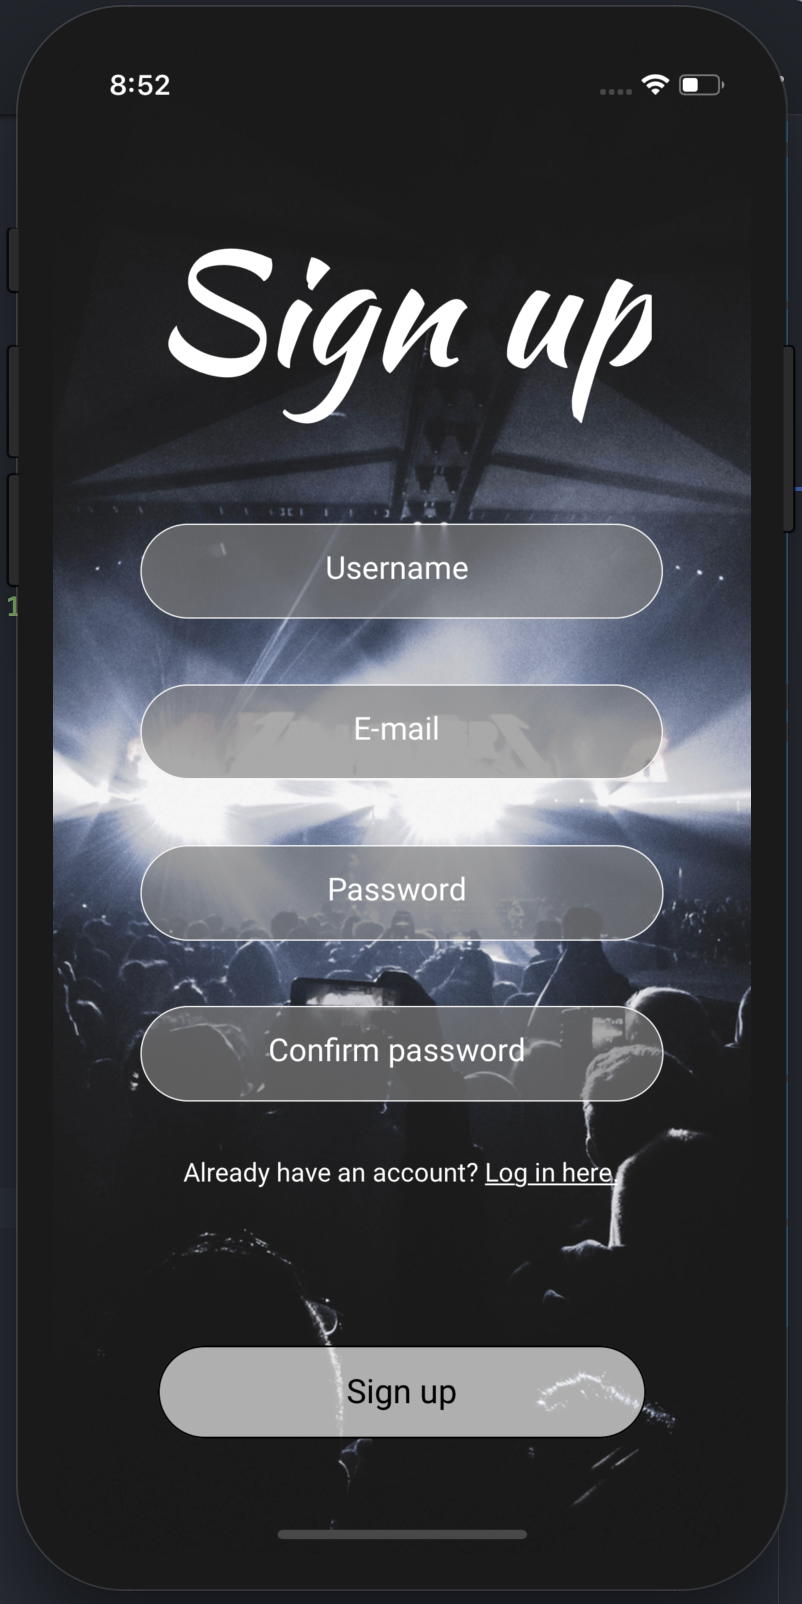
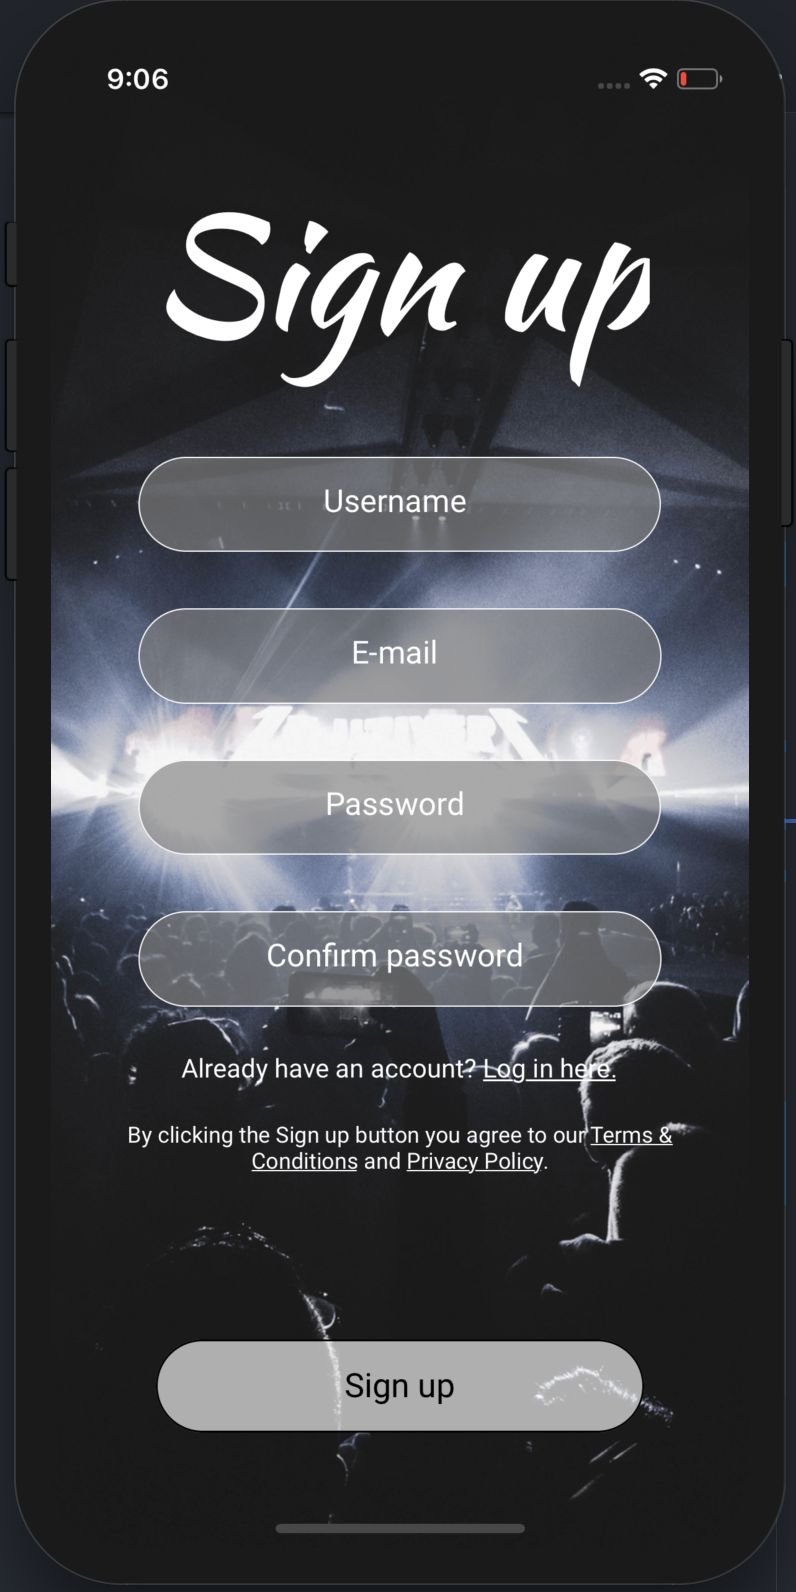
Signup screen

diff --git a/app/screens/SignupScreen.js b/app/screens/SignupScreen.js
@@ -64,6 +64,13 @@ class SignupScreen extends Component {
                   Already have an account? <Text style={styles.loginLink}>Log in here.</Text>
                 </Text>
               </View>
+              <View style={styles.termsContainer}>
+                <Text style={styles.termsText}
+                      onPress={() => this.props.navigation.navigate('SignupScreen')}
+                >
+                  By clicking the Sign up button you agree to our <Text style={styles.termsLink}>Terms & Conditions</Text> and <Text style={styles.termsLink}>Privacy Policy</Text>.
+                </Text>
+              </View>
             </Form>
           </View>
           <View style={ styles.buttons }>
@@ -88,7 +95,7 @@ const styles = StyleSheet.create({
   },
   greetingContainer: {
     position: 'absolute',
-    top: '10%',
+    top: '8%',
     left: 0,
     right: 0,
     alignItems: 'center',
@@ -100,7 +107,7 @@ const styles = StyleSheet.create({
   },
   formInputsContainer: {
     position: 'absolute',
-    top: '30%',
+    top: '26%',
     left: 0,
     right: 0,
   },
@@ -108,7 +115,7 @@ const styles = StyleSheet.create({
     width: '75%',
     marginLeft: 'auto',
     marginRight: 'auto',
-    marginBottom: 20,
+    marginBottom: 15,
     backgroundColor: 'rgba(127, 127, 127, .65)',
     justifyContent: 'center',
     borderWidth: 1,
@@ -141,6 +148,22 @@ const styles = StyleSheet.create({
     fontSize: 14,
   },
   loginLink: {
+    textDecorationLine: 'underline'
+  },
+  termsContainer : {
+    marginTop: 10,
+    marginBottom: 10,
+    marginLeft: 'auto',
+    marginRight: 'auto',
+    width: '80%',
+  },
+  termsText: {
+    textAlign: 'center',
+    color: '#fff',
+    fontFamily: 'roboto-regular', 
+    fontSize: 12,
+  },
+  termsLink: {
     textDecorationLine: 'underline'
   },
   buttons: {
